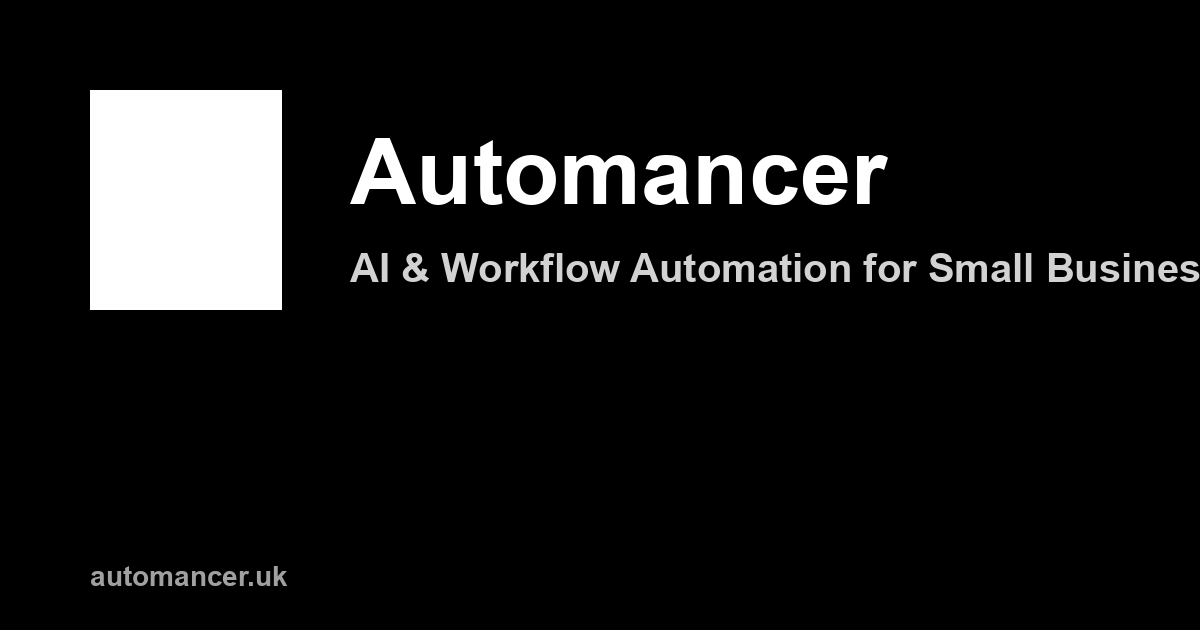
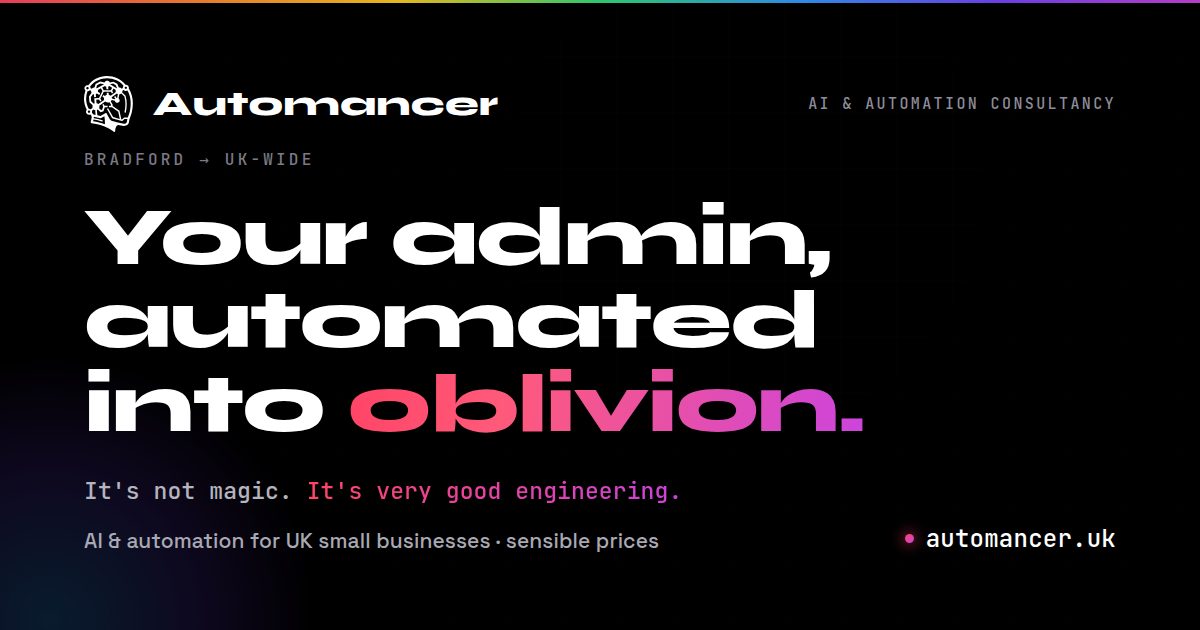
Ship new-brand OG/social-share image
Replace the broken legacy og-image (cut-off text, blank logo box, Arial on
black) with a proper on-brand 1200x630 card: white sigil + Syne wordmark,
"Your admin, automated into oblivion." headline with the spectral pink→purple
accent on "oblivion.", the mono spell line "It's not magic. It's very good
engineering.", "AI & automation for UK small businesses · sensible prices",
and automancer.uk. Key content sits in the safe centre with generous margins
so it survives LinkedIn/X preview crops.

Regenerable source kept at ops/og-image/ (self-contained HTML with inlined
logo + base64 brand fonts, plus a playwright-core renderer + README).

diff --git a/ops/og-image/render.js b/ops/og-image/render.js
@@ -1,0 +1,17 @@
+const { chromium } = require('playwright-core');
+const path = require('path');
+(async () => {
+  const inp=process.argv[2], out=process.argv[3];
+  const W=parseInt(process.argv[4]||'1200',10), H=parseInt(process.argv[5]||'630',10);
+  const browser = await chromium.launch({
+    executablePath: process.env.HOME + '/.cache/ms-playwright/chromium-1229/chrome-linux64/chrome',
+    chromiumSandbox:false, args:['--force-color-profile=srgb']
+  });
+  const page = await browser.newPage({ viewport:{width:W,height:H}, deviceScaleFactor:1 });
+  await page.goto('file://'+path.resolve(inp));
+  await page.evaluate(()=>document.fonts.ready);
+  await page.waitForTimeout(300);
+  await page.screenshot({ path:out, clip:{x:0,y:0,width:W,height:H} });
+  await browser.close();
+  console.log('rendered',out,W+'x'+H);
+})();

diff --git a/ops/og-image/README.md b/ops/og-image/README.md
@@ -1,0 +1,19 @@
+# OG / social-share image
+
+Source for `public/assets/images/og-image.png` (1200×630), referenced by
+`src/components/SEO.astro` as `og:image` / `twitter:image`.
+
+- `og-image.html` — fully self-contained: inline CSS, inlined logo SVG, and the
+  three brand fonts (Syne, Space Grotesk, JetBrains Mono) embedded as base64
+  woff2. No network needed to render.
+- `render.js` — Playwright (playwright-core) headless-Chromium renderer.
+
+## Regenerate
+
+```bash
+node render.js og-image.html ../../public/assets/images/og-image.png 1200 630
+```
+
+Renderer launches with an explicit Chromium `executablePath` + `chromiumSandbox:false`
+and `deviceScaleFactor:1` so the output is exactly 1200×630. Edit the copy/layout in
+`og-image.html`, re-render, eyeball it, then rebuild the site.